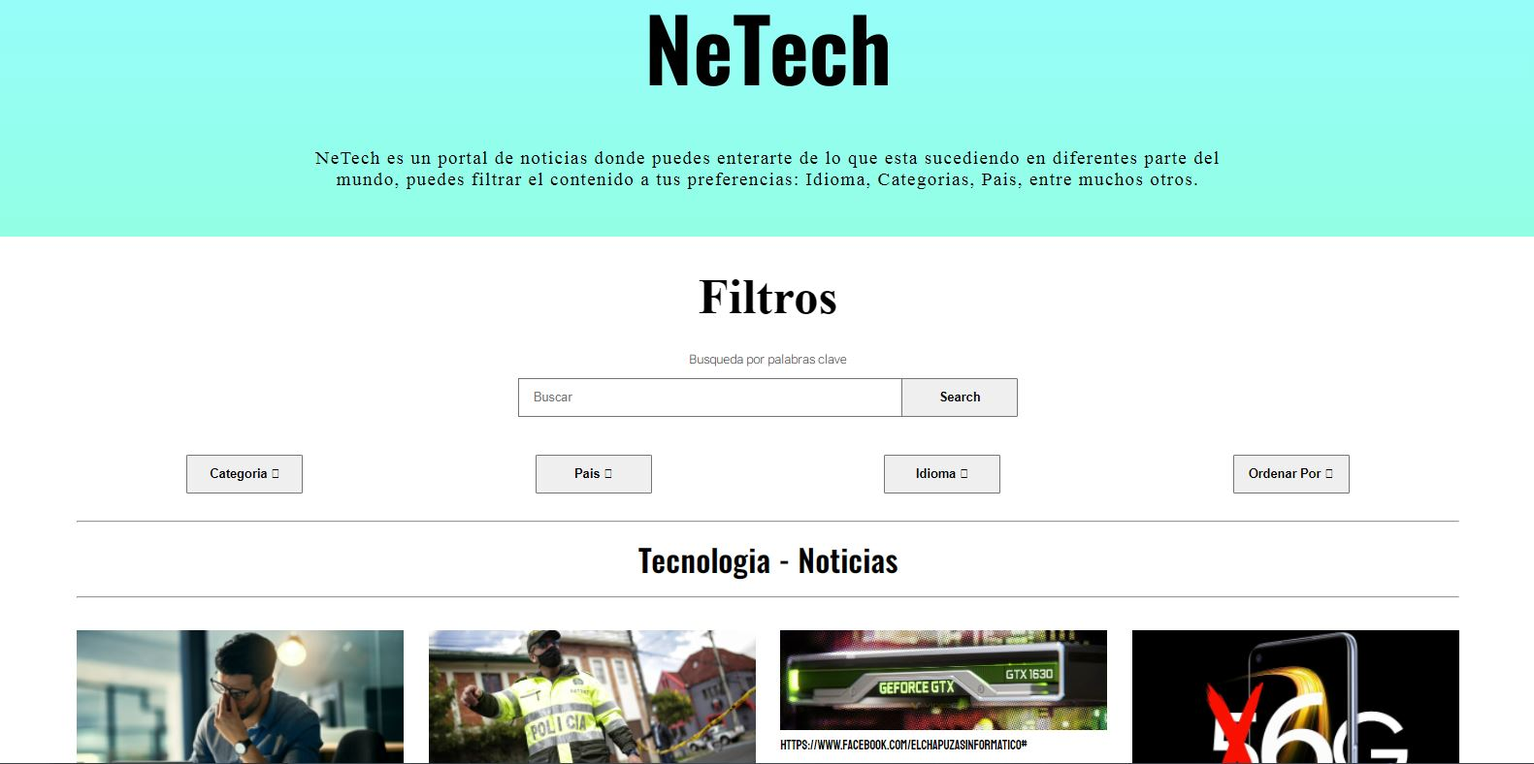
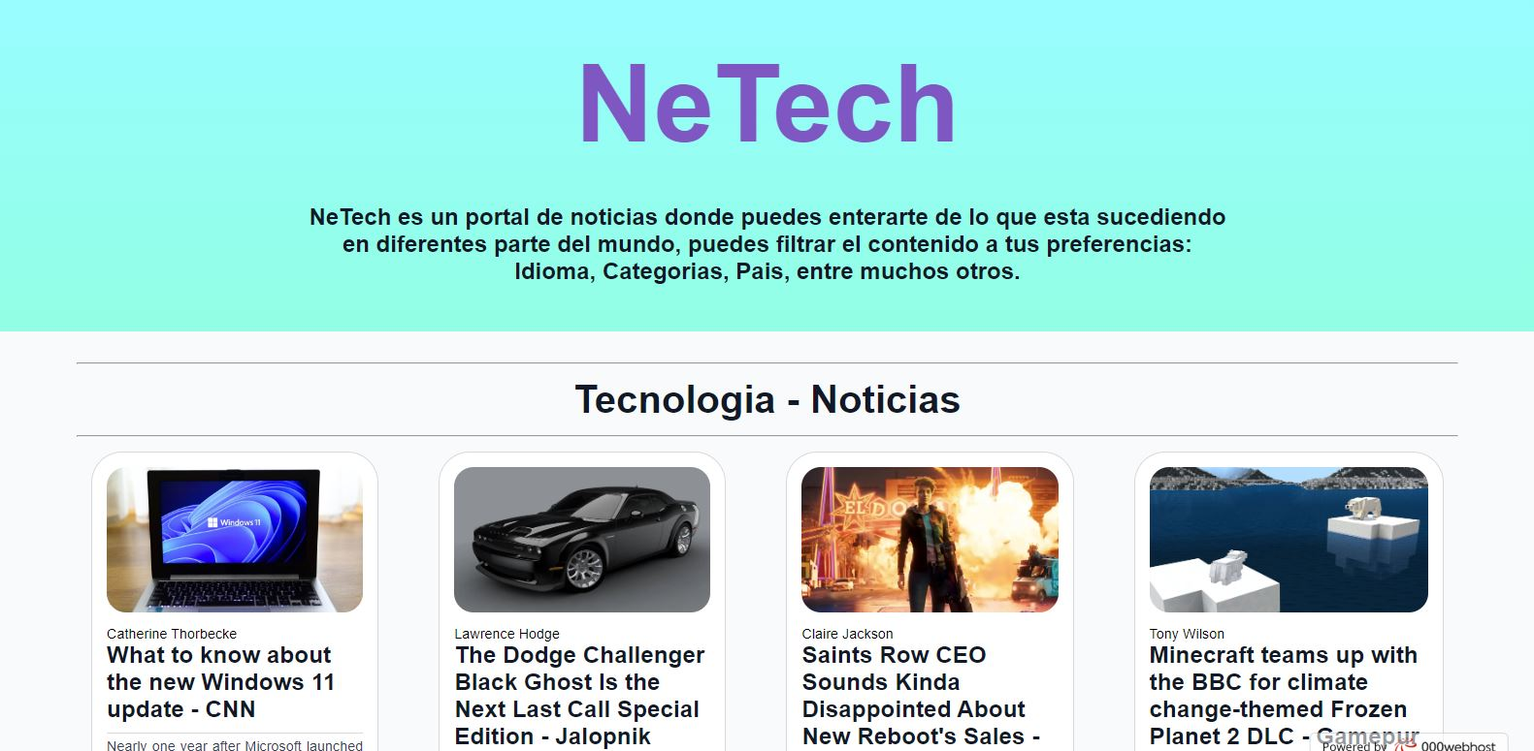
efecto background and add section Experiences

diff --git a/assets/js/particles/particles.min.js b/assets/js/particles/particles.min.js
@@ -1,0 +1,9 @@
+/* -----------------------------------------------
+/* Author : Vincent Garreau  - vincentgarreau.com
+/* MIT license: http://opensource.org/licenses/MIT
+/* Demo / Generator : vincentgarreau.com/particles.js
+/* GitHub : github.com/VincentGarreau/particles.js
+/* How to use? : Check the GitHub README
+/* v2.0.0
+/* ----------------------------------------------- */
+function hexToRgb(e){var a=/^#?([a-f\d])([a-f\d])([a-f\d])$/i;e=e.replace(a,function(e,a,t,i){return a+a+t+t+i+i});var t=/^#?([a-f\d]{2})([a-f\d]{2})([a-f\d]{2})$/i.exec(e);return t?{r:parseInt(t[1],16),g:parseInt(t[2],16),b:parseInt(t[3],16)}:null}function clamp(e,a,t){return Math.min(Math.max(e,a),t)}function isInArray(e,a){return a.indexOf(e)>-1}var pJS=function(e,a){var t=document.querySelector("#"+e+" > .particles-js-canvas-el");this.pJS={canvas:{el:t,w:t.offsetWidth,h:t.offsetHeight},particles:{number:{value:400,density:{enable:!0,value_area:800}},color:{value:"#fff"},shape:{type:"circle",stroke:{width:0,color:"#ff0000"},polygon:{nb_sides:5},image:{src:"",width:100,height:100}},opacity:{value:1,random:!1,anim:{enable:!1,speed:2,opacity_min:0,sync:!1}},size:{value:20,random:!1,anim:{enable:!1,speed:20,size_min:0,sync:!1}},line_linked:{enable:!0,distance:100,color:"#fff",opacity:1,width:1},move:{enable:!0,speed:2,direction:"none",random:!1,straight:!1,out_mode:"out",bounce:!1,attract:{enable:!1,rotateX:3e3,rotateY:3e3}},array:[]},interactivity:{detect_on:"canvas",events:{onhover:{enable:!0,mode:"grab"},onclick:{enable:!0,mode:"push"},resize:!0},modes:{grab:{distance:100,line_linked:{opacity:1}},bubble:{distance:200,size:80,duration:.4},repulse:{distance:200,duration:.4},push:{particles_nb:4},remove:{particles_nb:2}},mouse:{}},retina_detect:!1,fn:{interact:{},modes:{},vendors:{}},tmp:{}};var i=this.pJS;a&&Object.deepExtend(i,a),i.tmp.obj={size_value:i.particles.size.value,size_anim_speed:i.particles.size.anim.speed,move_speed:i.particles.move.speed,line_linked_distance:i.particles.line_linked.distance,line_linked_width:i.particles.line_linked.width,mode_grab_distance:i.interactivity.modes.grab.distance,mode_bubble_distance:i.interactivity.modes.bubble.distance,mode_bubble_size:i.interactivity.modes.bubble.size,mode_repulse_distance:i.interactivity.modes.repulse.distance},i.fn.retinaInit=function(){i.retina_detect&&window.devicePixelRatio>1?(i.canvas.pxratio=window.devicePixelRatio,i.tmp.retina=!0):(i.canvas.pxratio=1,i.tmp.retina=!1),i.canvas.w=i.canvas.el.offsetWidth*i.canvas.pxratio,i.canvas.h=i.canvas.el.offsetHeight*i.canvas.pxratio,i.particles.size.value=i.tmp.obj.size_value*i.canvas.pxratio,i.particles.size.anim.speed=i.tmp.obj.size_anim_speed*i.canvas.pxratio,i.particles.move.speed=i.tmp.obj.move_speed*i.canvas.pxratio,i.particles.line_linked.distance=i.tmp.obj.line_linked_distance*i.canvas.pxratio,i.interactivity.modes.grab.distance=i.tmp.obj.mode_grab_distance*i.canvas.pxratio,i.interactivity.modes.bubble.distance=i.tmp.obj.mode_bubble_distance*i.canvas.pxratio,i.particles.line_linked.width=i.tmp.obj.line_linked_width*i.canvas.pxratio,i.interactivity.modes.bubble.size=i.tmp.obj.mode_bubble_size*i.canvas.pxratio,i.interactivity.modes.repulse.distance=i.tmp.obj.mode_repulse_distance*i.canvas.pxratio},i.fn.canvasInit=function(){i.canvas.ctx=i.canvas.el.getContext("2d")},i.fn.canvasSize=function(){i.canvas.el.width=i.canvas.w,i.canvas.el.height=i.canvas.h,i&&i.interactivity.events.resize&&window.addEventListener("resize",function(){i.canvas.w=i.canvas.el.offsetWidth,i.canvas.h=i.canvas.el.offsetHeight,i.tmp.retina&&(i.canvas.w*=i.canvas.pxratio,i.canvas.h*=i.canvas.pxratio),i.canvas.el.width=i.canvas.w,i.canvas.el.height=i.canvas.h,i.particles.move.enable||(i.fn.particlesEmpty(),i.fn.particlesCreate(),i.fn.particlesDraw(),i.fn.vendors.densityAutoParticles()),i.fn.vendors.densityAutoParticles()})},i.fn.canvasPaint=function(){i.canvas.ctx.fillRect(0,0,i.canvas.w,i.canvas.h)},i.fn.canvasClear=function(){i.canvas.ctx.clearRect(0,0,i.canvas.w,i.canvas.h)},i.fn.particle=function(e,a,t){if(this.radius=(i.particles.size.random?Math.random():1)*i.particles.size.value,i.particles.size.anim.enable&&(this.size_status=!1,this.vs=i.particles.size.anim.speed/100,i.particles.size.anim.sync||(this.vs=this.vs*Math.random())),this.x=t?t.x:Math.random()*i.canvas.w,this.y=t?t.y:Math.random()*i.canvas.h,this.x>i.canvas.w-2*this.radius?this.x=this.x-this.radius:this.x<2*this.radius&&(this.x=this.x+this.radius),this.y>i.canvas.h-2*this.radius?this.y=this.y-this.radius:this.y<2*this.radius&&(this.y=this.y+this.radius),i.particles.move.bounce&&i.fn.vendors.checkOverlap(this,t),this.color={},"object"==typeof e.value)if(e.value instanceof Array){var s=e.value[Math.floor(Math.random()*i.particles.color.value.length)];this.color.rgb=hexToRgb(s)}else void 0!=e.value.r&&void 0!=e.value.g&&void 0!=e.value.b&&(this.color.rgb={r:e.value.r,g:e.value.g,b:e.value.b}),void 0!=e.value.h&&void 0!=e.value.s&&void 0!=e.value.l&&(this.color.hsl={h:e.value.h,s:e.value.s,l:e.value.l});else"random"==e.value?this.color.rgb={r:Math.floor(256*Math.random())+0,g:Math.floor(256*Math.random())+0,b:Math.floor(256*Math.random())+0}:"string"==typeof e.value&&(this.color=e,this.color.rgb=hexToRgb(this.color.value));this.opacity=(i.particles.opacity.random?Math.random():1)*i.particles.opacity.value,i.particles.opacity.anim.enable&&(this.opacity_status=!1,this.vo=i.particles.opacity.anim.speed/100,i.particles.opacity.anim.sync||(this.vo=this.vo*Math.random()));var n={};switch(i.particles.move.direction){case"top":n={x:0,y:-1};break;case"top-right":n={x:.5,y:-.5};break;case"right":n={x:1,y:-0};break;case"bottom-right":n={x:.5,y:.5};break;case"bottom":n={x:0,y:1};break;case"bottom-left":n={x:-.5,y:1};break;case"left":n={x:-1,y:0};break;case"top-left":n={x:-.5,y:-.5};break;default:n={x:0,y:0}}i.particles.move.straight?(this.vx=n.x,this.vy=n.y,i.particles.move.random&&(this.vx=this.vx*Math.random(),this.vy=this.vy*Math.random())):(this.vx=n.x+Math.random()-.5,this.vy=n.y+Math.random()-.5),this.vx_i=this.vx,this.vy_i=this.vy;var r=i.particles.shape.type;if("object"==typeof r){if(r instanceof Array){var c=r[Math.floor(Math.random()*r.length)];this.shape=c}}else this.shape=r;if("image"==this.shape){var o=i.particles.shape;this.img={src:o.image.src,ratio:o.image.width/o.image.height},this.img.ratio||(this.img.ratio=1),"svg"==i.tmp.img_type&&void 0!=i.tmp.source_svg&&(i.fn.vendors.createSvgImg(this),i.tmp.pushing&&(this.img.loaded=!1))}},i.fn.particle.prototype.draw=function(){function e(){i.canvas.ctx.drawImage(r,a.x-t,a.y-t,2*t,2*t/a.img.ratio)}var a=this;if(void 0!=a.radius_bubble)var t=a.radius_bubble;else var t=a.radius;if(void 0!=a.opacity_bubble)var s=a.opacity_bubble;else var s=a.opacity;if(a.color.rgb)var n="rgba("+a.color.rgb.r+","+a.color.rgb.g+","+a.color.rgb.b+","+s+")";else var n="hsla("+a.color.hsl.h+","+a.color.hsl.s+"%,"+a.color.hsl.l+"%,"+s+")";switch(i.canvas.ctx.fillStyle=n,i.canvas.ctx.beginPath(),a.shape){case"circle":i.canvas.ctx.arc(a.x,a.y,t,0,2*Math.PI,!1);break;case"edge":i.canvas.ctx.rect(a.x-t,a.y-t,2*t,2*t);break;case"triangle":i.fn.vendors.drawShape(i.canvas.ctx,a.x-t,a.y+t/1.66,2*t,3,2);break;case"polygon":i.fn.vendors.drawShape(i.canvas.ctx,a.x-t/(i.particles.shape.polygon.nb_sides/3.5),a.y-t/.76,2.66*t/(i.particles.shape.polygon.nb_sides/3),i.particles.shape.polygon.nb_sides,1);break;case"star":i.fn.vendors.drawShape(i.canvas.ctx,a.x-2*t/(i.particles.shape.polygon.nb_sides/4),a.y-t/1.52,2*t*2.66/(i.particles.shape.polygon.nb_sides/3),i.particles.shape.polygon.nb_sides,2);break;case"image":if("svg"==i.tmp.img_type)var r=a.img.obj;else var r=i.tmp.img_obj;r&&e()}i.canvas.ctx.closePath(),i.particles.shape.stroke.width>0&&(i.canvas.ctx.strokeStyle=i.particles.shape.stroke.color,i.canvas.ctx.lineWidth=i.particles.shape.stroke.width,i.canvas.ctx.stroke()),i.canvas.ctx.fill()},i.fn.particlesCreate=function(){for(var e=0;e<i.particles.number.value;e++)i.particles.array.push(new i.fn.particle(i.particles.color,i.particles.opacity.value))},i.fn.particlesUpdate=function(){for(var e=0;e<i.particles.array.length;e++){var a=i.particles.array[e];if(i.particles.move.enable){var t=i.particles.move.speed/2;a.x+=a.vx*t,a.y+=a.vy*t}if(i.particles.opacity.anim.enable&&(1==a.opacity_status?(a.opacity>=i.particles.opacity.value&&(a.opacity_status=!1),a.opacity+=a.vo):(a.opacity<=i.particles.opacity.anim.opacity_min&&(a.opacity_status=!0),a.opacity-=a.vo),a.opacity<0&&(a.opacity=0)),i.particles.size.anim.enable&&(1==a.size_status?(a.radius>=i.particles.size.value&&(a.size_status=!1),a.radius+=a.vs):(a.radius<=i.particles.size.anim.size_min&&(a.size_status=!0),a.radius-=a.vs),a.radius<0&&(a.radius=0)),"bounce"==i.particles.move.out_mode)var s={x_left:a.radius,x_right:i.canvas.w,y_top:a.radius,y_bottom:i.canvas.h};else var s={x_left:-a.radius,x_right:i.canvas.w+a.radius,y_top:-a.radius,y_bottom:i.canvas.h+a.radius};switch(a.x-a.radius>i.canvas.w?(a.x=s.x_left,a.y=Math.random()*i.canvas.h):a.x+a.radius<0&&(a.x=s.x_right,a.y=Math.random()*i.canvas.h),a.y-a.radius>i.canvas.h?(a.y=s.y_top,a.x=Math.random()*i.canvas.w):a.y+a.radius<0&&(a.y=s.y_bottom,a.x=Math.random()*i.canvas.w),i.particles.move.out_mode){case"bounce":a.x+a.radius>i.canvas.w?a.vx=-a.vx:a.x-a.radius<0&&(a.vx=-a.vx),a.y+a.radius>i.canvas.h?a.vy=-a.vy:a.y-a.radius<0&&(a.vy=-a.vy)}if(isInArray("grab",i.interactivity.events.onhover.mode)&&i.fn.modes.grabParticle(a),(isInArray("bubble",i.interactivity.events.onhover.mode)||isInArray("bubble",i.interactivity.events.onclick.mode))&&i.fn.modes.bubbleParticle(a),(isInArray("repulse",i.interactivity.events.onhover.mode)||isInArray("repulse",i.interactivity.events.onclick.mode))&&i.fn.modes.repulseParticle(a),i.particles.line_linked.enable||i.particles.move.attract.enable)for(var n=e+1;n<i.particles.array.length;n++){var r=i.particles.array[n];i.particles.line_linked.enable&&i.fn.interact.linkParticles(a,r),i.particles.move.attract.enable&&i.fn.interact.attractParticles(a,r),i.particles.move.bounce&&i.fn.interact.bounceParticles(a,r)}}},i.fn.particlesDraw=function(){i.canvas.ctx.clearRect(0,0,i.canvas.w,i.canvas.h),i.fn.particlesUpdate();for(var e=0;e<i.particles.array.length;e++){var a=i.particles.array[e];a.draw()}},i.fn.particlesEmpty=function(){i.particles.array=[]},i.fn.particlesRefresh=function(){cancelRequestAnimFrame(i.fn.checkAnimFrame),cancelRequestAnimFrame(i.fn.drawAnimFrame),i.tmp.source_svg=void 0,i.tmp.img_obj=void 0,i.tmp.count_svg=0,i.fn.particlesEmpty(),i.fn.canvasClear(),i.fn.vendors.start()},i.fn.interact.linkParticles=function(e,a){var t=e.x-a.x,s=e.y-a.y,n=Math.sqrt(t*t+s*s);if(n<=i.particles.line_linked.distance){var r=i.particles.line_linked.opacity-n/(1/i.particles.line_linked.opacity)/i.particles.line_linked.distance;if(r>0){var c=i.particles.line_linked.color_rgb_line;i.canvas.ctx.strokeStyle="rgba("+c.r+","+c.g+","+c.b+","+r+")",i.canvas.ctx.lineWidth=i.particles.line_linked.width,i.canvas.ctx.beginPath(),i.canvas.ctx.moveTo(e.x,e.y),i.canvas.ctx.lineTo(a.x,a.y),i.canvas.ctx.stroke(),i.canvas.ctx.closePath()}}},i.fn.interact.attractParticles=function(e,a){var t=e.x-a.x,s=e.y-a.y,n=Math.sqrt(t*t+s*s);if(n<=i.particles.line_linked.distance){var r=t/(1e3*i.particles.move.attract.rotateX),c=s/(1e3*i.particles.move.attract.rotateY);e.vx-=r,e.vy-=c,a.vx+=r,a.vy+=c}},i.fn.interact.bounceParticles=function(e,a){var t=e.x-a.x,i=e.y-a.y,s=Math.sqrt(t*t+i*i),n=e.radius+a.radius;n>=s&&(e.vx=-e.vx,e.vy=-e.vy,a.vx=-a.vx,a.vy=-a.vy)},i.fn.modes.pushParticles=function(e,a){i.tmp.pushing=!0;for(var t=0;e>t;t++)i.particles.array.push(new i.fn.particle(i.particles.color,i.particles.opacity.value,{x:a?a.pos_x:Math.random()*i.canvas.w,y:a?a.pos_y:Math.random()*i.canvas.h})),t==e-1&&(i.particles.move.enable||i.fn.particlesDraw(),i.tmp.pushing=!1)},i.fn.modes.removeParticles=function(e){i.particles.array.splice(0,e),i.particles.move.enable||i.fn.particlesDraw()},i.fn.modes.bubbleParticle=function(e){function a(){e.opacity_bubble=e.opacity,e.radius_bubble=e.radius}function t(a,t,s,n,c){if(a!=t)if(i.tmp.bubble_duration_end){if(void 0!=s){var o=n-p*(n-a)/i.interactivity.modes.bubble.duration,l=a-o;d=a+l,"size"==c&&(e.radius_bubble=d),"opacity"==c&&(e.opacity_bubble=d)}}else if(r<=i.interactivity.modes.bubble.distance){if(void 0!=s)var v=s;else var v=n;if(v!=a){var d=n-p*(n-a)/i.interactivity.modes.bubble.duration;"size"==c&&(e.radius_bubble=d),"opacity"==c&&(e.opacity_bubble=d)}}else"size"==c&&(e.radius_bubble=void 0),"opacity"==c&&(e.opacity_bubble=void 0)}if(i.interactivity.events.onhover.enable&&isInArray("bubble",i.interactivity.events.onhover.mode)){var s=e.x-i.interactivity.mouse.pos_x,n=e.y-i.interactivity.mouse.pos_y,r=Math.sqrt(s*s+n*n),c=1-r/i.interactivity.modes.bubble.distance;if(r<=i.interactivity.modes.bubble.distance){if(c>=0&&"mousemove"==i.interactivity.status){if(i.interactivity.modes.bubble.size!=i.particles.size.value)if(i.interactivity.modes.bubble.size>i.particles.size.value){var o=e.radius+i.interactivity.modes.bubble.size*c;o>=0&&(e.radius_bubble=o)}else{var l=e.radius-i.interactivity.modes.bubble.size,o=e.radius-l*c;o>0?e.radius_bubble=o:e.radius_bubble=0}if(i.interactivity.modes.bubble.opacity!=i.particles.opacity.value)if(i.interactivity.modes.bubble.opacity>i.particles.opacity.value){var v=i.interactivity.modes.bubble.opacity*c;v>e.opacity&&v<=i.interactivity.modes.bubble.opacity&&(e.opacity_bubble=v)}else{var v=e.opacity-(i.particles.opacity.value-i.interactivity.modes.bubble.opacity)*c;v<e.opacity&&v>=i.interactivity.modes.bubble.opacity&&(e.opacity_bubble=v)}}}else a();"mouseleave"==i.interactivity.status&&a()}else if(i.interactivity.events.onclick.enable&&isInArray("bubble",i.interactivity.events.onclick.mode)){if(i.tmp.bubble_clicking){var s=e.x-i.interactivity.mouse.click_pos_x,n=e.y-i.interactivity.mouse.click_pos_y,r=Math.sqrt(s*s+n*n),p=((new Date).getTime()-i.interactivity.mouse.click_time)/1e3;p>i.interactivity.modes.bubble.duration&&(i.tmp.bubble_duration_end=!0),p>2*i.interactivity.modes.bubble.duration&&(i.tmp.bubble_clicking=!1,i.tmp.bubble_duration_end=!1)}i.tmp.bubble_clicking&&(t(i.interactivity.modes.bubble.size,i.particles.size.value,e.radius_bubble,e.radius,"size"),t(i.interactivity.modes.bubble.opacity,i.particles.opacity.value,e.opacity_bubble,e.opacity,"opacity"))}},i.fn.modes.repulseParticle=function(e){function a(){var a=Math.atan2(d,p);if(e.vx=u*Math.cos(a),e.vy=u*Math.sin(a),"bounce"==i.particles.move.out_mode){var t={x:e.x+e.vx,y:e.y+e.vy};t.x+e.radius>i.canvas.w?e.vx=-e.vx:t.x-e.radius<0&&(e.vx=-e.vx),t.y+e.radius>i.canvas.h?e.vy=-e.vy:t.y-e.radius<0&&(e.vy=-e.vy)}}if(i.interactivity.events.onhover.enable&&isInArray("repulse",i.interactivity.events.onhover.mode)&&"mousemove"==i.interactivity.status){var t=e.x-i.interactivity.mouse.pos_x,s=e.y-i.interactivity.mouse.pos_y,n=Math.sqrt(t*t+s*s),r={x:t/n,y:s/n},c=i.interactivity.modes.repulse.distance,o=100,l=clamp(1/c*(-1*Math.pow(n/c,2)+1)*c*o,0,50),v={x:e.x+r.x*l,y:e.y+r.y*l};"bounce"==i.particles.move.out_mode?(v.x-e.radius>0&&v.x+e.radius<i.canvas.w&&(e.x=v.x),v.y-e.radius>0&&v.y+e.radius<i.canvas.h&&(e.y=v.y)):(e.x=v.x,e.y=v.y)}else if(i.interactivity.events.onclick.enable&&isInArray("repulse",i.interactivity.events.onclick.mode))if(i.tmp.repulse_finish||(i.tmp.repulse_count++,i.tmp.repulse_count==i.particles.array.length&&(i.tmp.repulse_finish=!0)),i.tmp.repulse_clicking){var c=Math.pow(i.interactivity.modes.repulse.distance/6,3),p=i.interactivity.mouse.click_pos_x-e.x,d=i.interactivity.mouse.click_pos_y-e.y,m=p*p+d*d,u=-c/m*1;c>=m&&a()}else 0==i.tmp.repulse_clicking&&(e.vx=e.vx_i,e.vy=e.vy_i)},i.fn.modes.grabParticle=function(e){if(i.interactivity.events.onhover.enable&&"mousemove"==i.interactivity.status){var a=e.x-i.interactivity.mouse.pos_x,t=e.y-i.interactivity.mouse.pos_y,s=Math.sqrt(a*a+t*t);if(s<=i.interactivity.modes.grab.distance){var n=i.interactivity.modes.grab.line_linked.opacity-s/(1/i.interactivity.modes.grab.line_linked.opacity)/i.interactivity.modes.grab.distance;if(n>0){var r=i.particles.line_linked.color_rgb_line;i.canvas.ctx.strokeStyle="rgba("+r.r+","+r.g+","+r.b+","+n+")",i.canvas.ctx.lineWidth=i.particles.line_linked.width,i.canvas.ctx.beginPath(),i.canvas.ctx.moveTo(e.x,e.y),i.canvas.ctx.lineTo(i.interactivity.mouse.pos_x,i.interactivity.mouse.pos_y),i.canvas.ctx.stroke(),i.canvas.ctx.closePath()}}}},i.fn.vendors.eventsListeners=function(){"window"==i.interactivity.detect_on?i.interactivity.el=window:i.interactivity.el=i.canvas.el,(i.interactivity.events.onhover.enable||i.interactivity.events.onclick.enable)&&(i.interactivity.el.addEventListener("mousemove",function(e){if(i.interactivity.el==window)var a=e.clientX,t=e.clientY;else var a=e.offsetX||e.clientX,t=e.offsetY||e.clientY;i.interactivity.mouse.pos_x=a,i.interactivity.mouse.pos_y=t,i.tmp.retina&&(i.interactivity.mouse.pos_x*=i.canvas.pxratio,i.interactivity.mouse.pos_y*=i.canvas.pxratio),i.interactivity.status="mousemove"}),i.interactivity.el.addEventListener("mouseleave",function(e){i.interactivity.mouse.pos_x=null,i.interactivity.mouse.pos_y=null,i.interactivity.status="mouseleave"})),i.interactivity.events.onclick.enable&&i.interactivity.el.addEventListener("click",function(){if(i.interactivity.mouse.click_pos_x=i.interactivity.mouse.pos_x,i.interactivity.mouse.click_pos_y=i.interactivity.mouse.pos_y,i.interactivity.mouse.click_time=(new Date).getTime(),i.interactivity.events.onclick.enable)switch(i.interactivity.events.onclick.mode){case"push":i.particles.move.enable?i.fn.modes.pushParticles(i.interactivity.modes.push.particles_nb,i.interactivity.mouse):1==i.interactivity.modes.push.particles_nb?i.fn.modes.pushParticles(i.interactivity.modes.push.particles_nb,i.interactivity.mouse):i.interactivity.modes.push.particles_nb>1&&i.fn.modes.pushParticles(i.interactivity.modes.push.particles_nb);break;case"remove":i.fn.modes.removeParticles(i.interactivity.modes.remove.particles_nb);break;case"bubble":i.tmp.bubble_clicking=!0;break;case"repulse":i.tmp.repulse_clicking=!0,i.tmp.repulse_count=0,i.tmp.repulse_finish=!1,setTimeout(function(){i.tmp.repulse_clicking=!1},1e3*i.interactivity.modes.repulse.duration)}})},i.fn.vendors.densityAutoParticles=function(){if(i.particles.number.density.enable){var e=i.canvas.el.width*i.canvas.el.height/1e3;i.tmp.retina&&(e/=2*i.canvas.pxratio);var a=e*i.particles.number.value/i.particles.number.density.value_area,t=i.particles.array.length-a;0>t?i.fn.modes.pushParticles(Math.abs(t)):i.fn.modes.removeParticles(t)}},i.fn.vendors.checkOverlap=function(e,a){for(var t=0;t<i.particles.array.length;t++){var s=i.particles.array[t],n=e.x-s.x,r=e.y-s.y,c=Math.sqrt(n*n+r*r);c<=e.radius+s.radius&&(e.x=a?a.x:Math.random()*i.canvas.w,e.y=a?a.y:Math.random()*i.canvas.h,i.fn.vendors.checkOverlap(e))}},i.fn.vendors.createSvgImg=function(e){var a=i.tmp.source_svg,t=/#([0-9A-F]{3,6})/gi,s=a.replace(t,function(a,t,i,s){if(e.color.rgb)var n="rgba("+e.color.rgb.r+","+e.color.rgb.g+","+e.color.rgb.b+","+e.opacity+")";else var n="hsla("+e.color.hsl.h+","+e.color.hsl.s+"%,"+e.color.hsl.l+"%,"+e.opacity+")";return n}),n=new Blob([s],{type:"image/svg+xml;charset=utf-8"}),r=window.URL||window.webkitURL||window,c=r.createObjectURL(n),o=new Image;o.addEventListener("load",function(){e.img.obj=o,e.img.loaded=!0,r.revokeObjectURL(c),i.tmp.count_svg++}),o.src=c},i.fn.vendors.destroypJS=function(){cancelAnimationFrame(i.fn.drawAnimFrame),t.remove(),pJSDom=null},i.fn.vendors.drawShape=function(e,a,t,i,s,n){var r=s*n,c=s/n,o=180*(c-2)/c,l=Math.PI-Math.PI*o/180;e.save(),e.beginPath(),e.translate(a,t),e.moveTo(0,0);for(var v=0;r>v;v++)e.lineTo(i,0),e.translate(i,0),e.rotate(l);e.fill(),e.restore()},i.fn.vendors.exportImg=function(){window.open(i.canvas.el.toDataURL("image/png"),"_blank")},i.fn.vendors.loadImg=function(e){if(i.tmp.img_error=void 0,""!=i.particles.shape.image.src)if("svg"==e){var a=new XMLHttpRequest;a.open("GET",i.particles.shape.image.src),a.onreadystatechange=function(e){4==a.readyState&&(200==a.status?(i.tmp.source_svg=e.currentTarget.response,i.fn.vendors.checkBeforeDraw()):(console.log("Error pJS - Image not found"),i.tmp.img_error=!0))},a.send()}else{var t=new Image;t.addEventListener("load",function(){i.tmp.img_obj=t,i.fn.vendors.checkBeforeDraw()}),t.src=i.particles.shape.image.src}else console.log("Error pJS - No image.src"),i.tmp.img_error=!0},i.fn.vendors.draw=function(){"image"==i.particles.shape.type?"svg"==i.tmp.img_type?i.tmp.count_svg>=i.particles.number.value?(i.fn.particlesDraw(),i.particles.move.enable?i.fn.drawAnimFrame=requestAnimFrame(i.fn.vendors.draw):cancelRequestAnimFrame(i.fn.drawAnimFrame)):i.tmp.img_error||(i.fn.drawAnimFrame=requestAnimFrame(i.fn.vendors.draw)):void 0!=i.tmp.img_obj?(i.fn.particlesDraw(),i.particles.move.enable?i.fn.drawAnimFrame=requestAnimFrame(i.fn.vendors.draw):cancelRequestAnimFrame(i.fn.drawAnimFrame)):i.tmp.img_error||(i.fn.drawAnimFrame=requestAnimFrame(i.fn.vendors.draw)):(i.fn.particlesDraw(),i.particles.move.enable?i.fn.drawAnimFrame=requestAnimFrame(i.fn.vendors.draw):cancelRequestAnimFrame(i.fn.drawAnimFrame))},i.fn.vendors.checkBeforeDraw=function(){"image"==i.particles.shape.type?"svg"==i.tmp.img_type&&void 0==i.tmp.source_svg?i.tmp.checkAnimFrame=requestAnimFrame(check):(cancelRequestAnimFrame(i.tmp.checkAnimFrame),i.tmp.img_error||(i.fn.vendors.init(),i.fn.vendors.draw())):(i.fn.vendors.init(),i.fn.vendors.draw())},i.fn.vendors.init=function(){i.fn.retinaInit(),i.fn.canvasInit(),i.fn.canvasSize(),i.fn.canvasPaint(),i.fn.particlesCreate(),i.fn.vendors.densityAutoParticles(),i.particles.line_linked.color_rgb_line=hexToRgb(i.particles.line_linked.color)},i.fn.vendors.start=function(){isInArray("image",i.particles.shape.type)?(i.tmp.img_type=i.particles.shape.image.src.substr(i.particles.shape.image.src.length-3),i.fn.vendors.loadImg(i.tmp.img_type)):i.fn.vendors.checkBeforeDraw()},i.fn.vendors.eventsListeners(),i.fn.vendors.start()};Object.deepExtend=function(e,a){for(var t in a)a[t]&&a[t].constructor&&a[t].constructor===Object?(e[t]=e[t]||{},arguments.callee(e[t],a[t])):e[t]=a[t];return e},window.requestAnimFrame=function(){return window.requestAnimationFrame||window.webkitRequestAnimationFrame||window.mozRequestAnimationFrame||window.oRequestAnimationFrame||window.msRequestAnimationFrame||function(e){window.setTimeout(e,1e3/60)}}(),window.cancelRequestAnimFrame=function(){return window.cancelAnimationFrame||window.webkitCancelRequestAnimationFrame||window.mozCancelRequestAnimationFrame||window.oCancelRequestAnimationFrame||window.msCancelRequestAnimationFrame||clearTimeout}(),window.pJSDom=[],window.particlesJS=function(e,a){"string"!=typeof e&&(a=e,e="particles-js"),e||(e="particles-js");var t=document.getElementById(e),i="particles-js-canvas-el",s=t.getElementsByClassName(i);if(s.length)for(;s.length>0;)t.removeChild(s[0]);var n=document.createElement("canvas");n.className=i,n.style.width="100%",n.style.height="100%";var r=document.getElementById(e).appendChild(n);null!=r&&pJSDom.push(new pJS(e,a))},window.particlesJS.load=function(e,a,t){var i=new XMLHttpRequest;i.open("GET",a),i.onreadystatechange=function(a){if(4==i.readyState)if(200==i.status){var s=JSON.parse(a.currentTarget.response);window.particlesJS(e,s),t&&t()}else console.log("Error pJS - XMLHttpRequest status: "+i.status),console.log("Error pJS - File config not found")},i.send()};

diff --git a/index.html b/index.html
@@ -10,9 +10,17 @@
 		<script src="https://unpkg.com/@lottiefiles/lottie-player@latest/dist/lottie-player.js"></script>
 		<link rel="stylesheet" href="assets/css/main.css" />
 		<link rel="stylesheet" href="assets/css/main-black.css" />
+		<link rel="stylesheet" href="assets/css/particles.css" />
 	</head>
 	<body class="is-preload">
-		<div id="anim"></div>
+
+		<!-- Particules -->
+		<div id="particles-js"></div>
+
+		<!-- <div id="anim"></div> -->
+
+
+		<div class="body">
 			<div class="row">
 				<div class="col-md">
 					<header class="py-" id="Home">
@@ -218,6 +226,59 @@
 										</div>
 									</div>
 								</section>
+							<!-- Experiencias -->
+							<section class="exp">
+								<header class="major">
+									<h2 id="MyExperience" data-aos="fade-up" data-aos-anchor-placement="top-bottom">Experiencias</h2>
+								</header>
+								<div class="posts">
+									<article data-aos="right">
+										<h3  data-aos="flip-right" data-aos-easing="ease-out-cubic" data-aos-duration="1500"><a href="https://www.linkedin.com/company/gesprender/" target="_blank">Gesprender</a></h3>
+										<p data-aos="flip-right"><b>Puesto desarrollado:</b> Full Stack  (Marzo 2022 - Actualmente)</p>
+										<p data-aos="flip-right"><b>Actividades Desempeñadas:</b></p>
+										<ul  data-aos="flip-right" data-aos-easing="ease-out-cubic" data-aos-duration="1500" class="actions">
+											<li>Corrección de problemas de la plataforma, por lado del Frontend y Backend</li>
+											<li>Creación de nuevos elementos</li>
+											<li>Creación de nuevos módulos.</li>
+										</ul>
+										<div data-aos="flip-right" data-aos-easing="ease-out-cubic" data-aos-duration="1500" class="technologies">
+											<img id="technologies" src="images/Skills/php.png" alt="PHP">
+											<img id="technologies" src="images/Skills/react.png" alt="react">
+											<img id="technologies" src="images/Skills/Javascript.png" alt="Javascript">
+											<img id="technologies" src="images/Skills/mysql.png" alt="MySQL">
+											<img id="technologies" src="images/Skills/html.png" alt="HTML">
+											<img id="technologies" src="images/Skills/css.png" alt="CSS">
+											<img id="technologies" src="images/Skills/Postman.png" alt="Postman">
+											<img id="technologies" src="images/Skills/bootstrap.png" alt="Booststrap">
+											<img id="technologies" src="images/Skills/Jquery.png" alt="Jquery">
+											<img id="technologies" src="images/Skills/Trello.png" alt="Trello">
+											<img id="technologies" src="images/Skills/Git.png" alt="GIT">
+											<img id="technologies" src="images/Skills/Figma.png" alt="Figma">
+										</div>
+									</article>
+									<article data-aos="right">
+										<h3  data-aos="flip-right" data-aos-easing="ease-out-cubic" data-aos-duration="1500"><a href="https://www.linkedin.com/company/id-for-ideas" target="_blank">Id For Idea</a></h3>
+										<p data-aos="flip-right"><b>Puesto desarrollado:</b> Backend Developer PHP  (Noviembre 2021 - Marzo 2022)</p>
+										<p data-aos="flip-right"><b>Actividades Desempeñadas:</b></p>
+										<ul  data-aos="flip-right" data-aos-easing="ease-out-cubic" data-aos-duration="1500" class="actions">
+											<li>Creación de la lógica de elementos</li>
+											<li>Conexiones de la Base de Datos</li>
+											<li>Mantenimiento de la Base de Datos.</li>
+										</ul>
+										<div data-aos="flip-right" data-aos-easing="ease-out-cubic" data-aos-duration="1500" class="technologies">
+											<img id="technologies" src="images/Skills/php.png" alt="PHP">
+											<img id="technologies" src="images/Skills/Javascript.png" alt="Javascript">
+											<img id="technologies" src="images/Skills/mysql.png" alt="MySQL">
+											<img id="technologies" src="images/Skills/html.png" alt="HTML">
+											<img id="technologies" src="images/Skills/css.png" alt="CSS">
+											<img id="technologies" src="images/Skills/bootstrap.png" alt="Booststrap">
+											<img id="technologies" src="images/Skills/Trello.png" alt="Trello">
+											<img id="technologies" src="images/Skills/Git.png" alt="GIT">
+											<img id="technologies" src="images/Skills/Figma.png" alt="Figma">
+										</div>
+									</article>
+								</div>
+							</section>
 							<!-- Section Projects-->
 								<section>
 									<header class="major">
@@ -278,7 +339,7 @@
 												<li><a href="https://portafoliodylangowner.000webhostapp.com/GownerMusic/" class="button" target="_BLANK">Web</a></li>
 											</ul>
 										</article>
-										<article data-aos="right">
+										<!-- <article data-aos="right">
 											<a data-aos="flip-right" data-aos-easing="ease-out-cubic" data-aos-duration="1500" href="https://gesprender.com/" class="image" target="_BLANK"><img src="images/Projects/GesPrender.PNG" alt="" /></a>
 											<h3 data-aos="flip-right" data-aos-easing="ease-out-cubic" data-aos-duration="1500">GesPrender</h3>
 											<div data-aos="flip-right" data-aos-easing="ease-out-cubic" data-aos-duration="1500" class="technologies">
@@ -298,7 +359,7 @@
 											<ul data-aos="flip-right" data-aos-easing="ease-out-cubic" data-aos-duration="1500" class="actions">
 												<li><a href="https://gesprender.com/" target="_BLANK" class="button">Web</a></li>
 											</ul>
-										</article>
+										</article> -->
 										<article data-aos="left">
 											<a data-aos="flip-left" data-aos-easing="ease-out-cubic" data-aos-duration="1500" href="https://portafoliodylangowner.000webhostapp.com/NeTech" class="image" target="_BLANK"><img src="images/Projects/NeTech.JPG" alt="" /></a>
 											<h3 data-aos="flip-left" data-aos-easing="ease-out-cubic" data-aos-duration="1500">NewTech</h3>
@@ -422,6 +483,7 @@
 									<ul>
 										<li><a href="#Home">Inicio</a></li>
 										<li><a href="#Skills">Habilidades</a></li>
+										<li><a href="#MyExperience">Experiencia</a></li>
 										<li><a href="#MyProjects">Mis Proyectos</a></li>
 										<li>
 									</ul>
@@ -462,7 +524,11 @@
 						</div>
 					</div>
 			</div>
-		<!-- Scripts -->
+		</div>
+		
+			<!-- Scripts -->
+			<script src="assets/js/particles/particles.min.js"></script>
+			<script src="assets/js/particles/app.js"></script>
 			<script src="assets/js/script.js"></script>
 			<script src="assets/js/jquery.min.js"></script>
 			<script src="assets/js/browser.min.js"></script>

diff --git a/assets/js/particles/app.js b/assets/js/particles/app.js
@@ -1,0 +1,112 @@
+particlesJS(
+    {
+        "particles": {
+          "number": {
+            "value": 20,
+            "density": {
+              "enable": true,
+              "value_area": 700
+            }
+          },
+          "color": {
+            "value": "#f45c5c"
+          },
+          "shape": {
+            "type": "circle",
+            "stroke": {
+              "width": 0,
+              "color": "#000000"
+            },
+            "polygon": {
+              "nb_sides": 5
+            },
+            "image": {
+              "src": "img/github.svg",
+              "width": 100,
+              "height": 100
+            }
+          },
+          "opacity": {
+            "value": 0.4,
+            "random": false,
+            "anim": {
+              "enable": false,
+              "speed": 1,
+              "opacity_min": 0.1,
+              "sync": false
+            }
+          },
+          "size": {
+            "value": 3,
+            "random": true,
+            "anim": {
+              "enable": false,
+              "speed": 80,
+              "size_min": 0.1,
+              "sync": false
+            }
+          },
+          "line_linked": {
+            "enable": true,
+            "distance": 200,
+            "color": "#f45c5c",
+            "opacity": 0.2,
+            "width": 1
+          },
+          "move": {
+            "enable": true,
+            "speed": 7,
+            "direction": "none",
+            "random": false,
+            "straight": false,
+            "out_mode": "out",
+            "bounce": false,
+            "attract": {
+              "enable": false,
+              "rotateX": 600,
+              "rotateY": 1200
+            }
+          }
+        },
+        "interactivity": {
+          "detect_on": "canvas",
+          "events": {
+            "onhover": {
+              "enable": true,
+              "mode": "repulse"
+            },
+            "onclick": {
+              "enable": true,
+              "mode": "push"
+            },
+            "resize": true
+          },
+          "modes": {
+            "grab": {
+              "distance": 800,
+              "line_linked": {
+                "opacity": 1
+              }
+            },
+            "bubble": {
+              "distance": 800,
+              "size": 80,
+              "duration": 2,
+              "opacity": 0.8,
+              "speed": 3
+            },
+            "repulse": {
+              "distance": 400,
+              "duration": 0.4
+            },
+            "push": {
+              "particles_nb": 4
+            },
+            "remove": {
+              "particles_nb": 2
+            }
+          }
+        },
+        "retina_detect": true
+      }
+);

diff --git a/assets/css/main.css b/assets/css/main.css
@@ -2443,3 +2443,18 @@ section div.subir #b-subir{
   width: 6%;
   z-index: 2;
 }
+
+/* SECTION EXPERIENCIAS */
+
+section.exp div.posts p {
+  margin-bottom: .5rem;
+}
+
+section.exp div.posts ul {
+  display: flex;
+  flex-direction: column;
+}
+
+section.exp div.posts ul li{
+  list-style: inside;
+}

diff --git a/assets/css/particles.css b/assets/css/particles.css
@@ -1,0 +1,12 @@
+#particles-js{
+    height: 200vh;
+    width: 200vh;
+    position: fixed;
+    z-index: -1;
+}
+
+
+.body{
+    position: relative;
+    z-index: 1; 
+}
